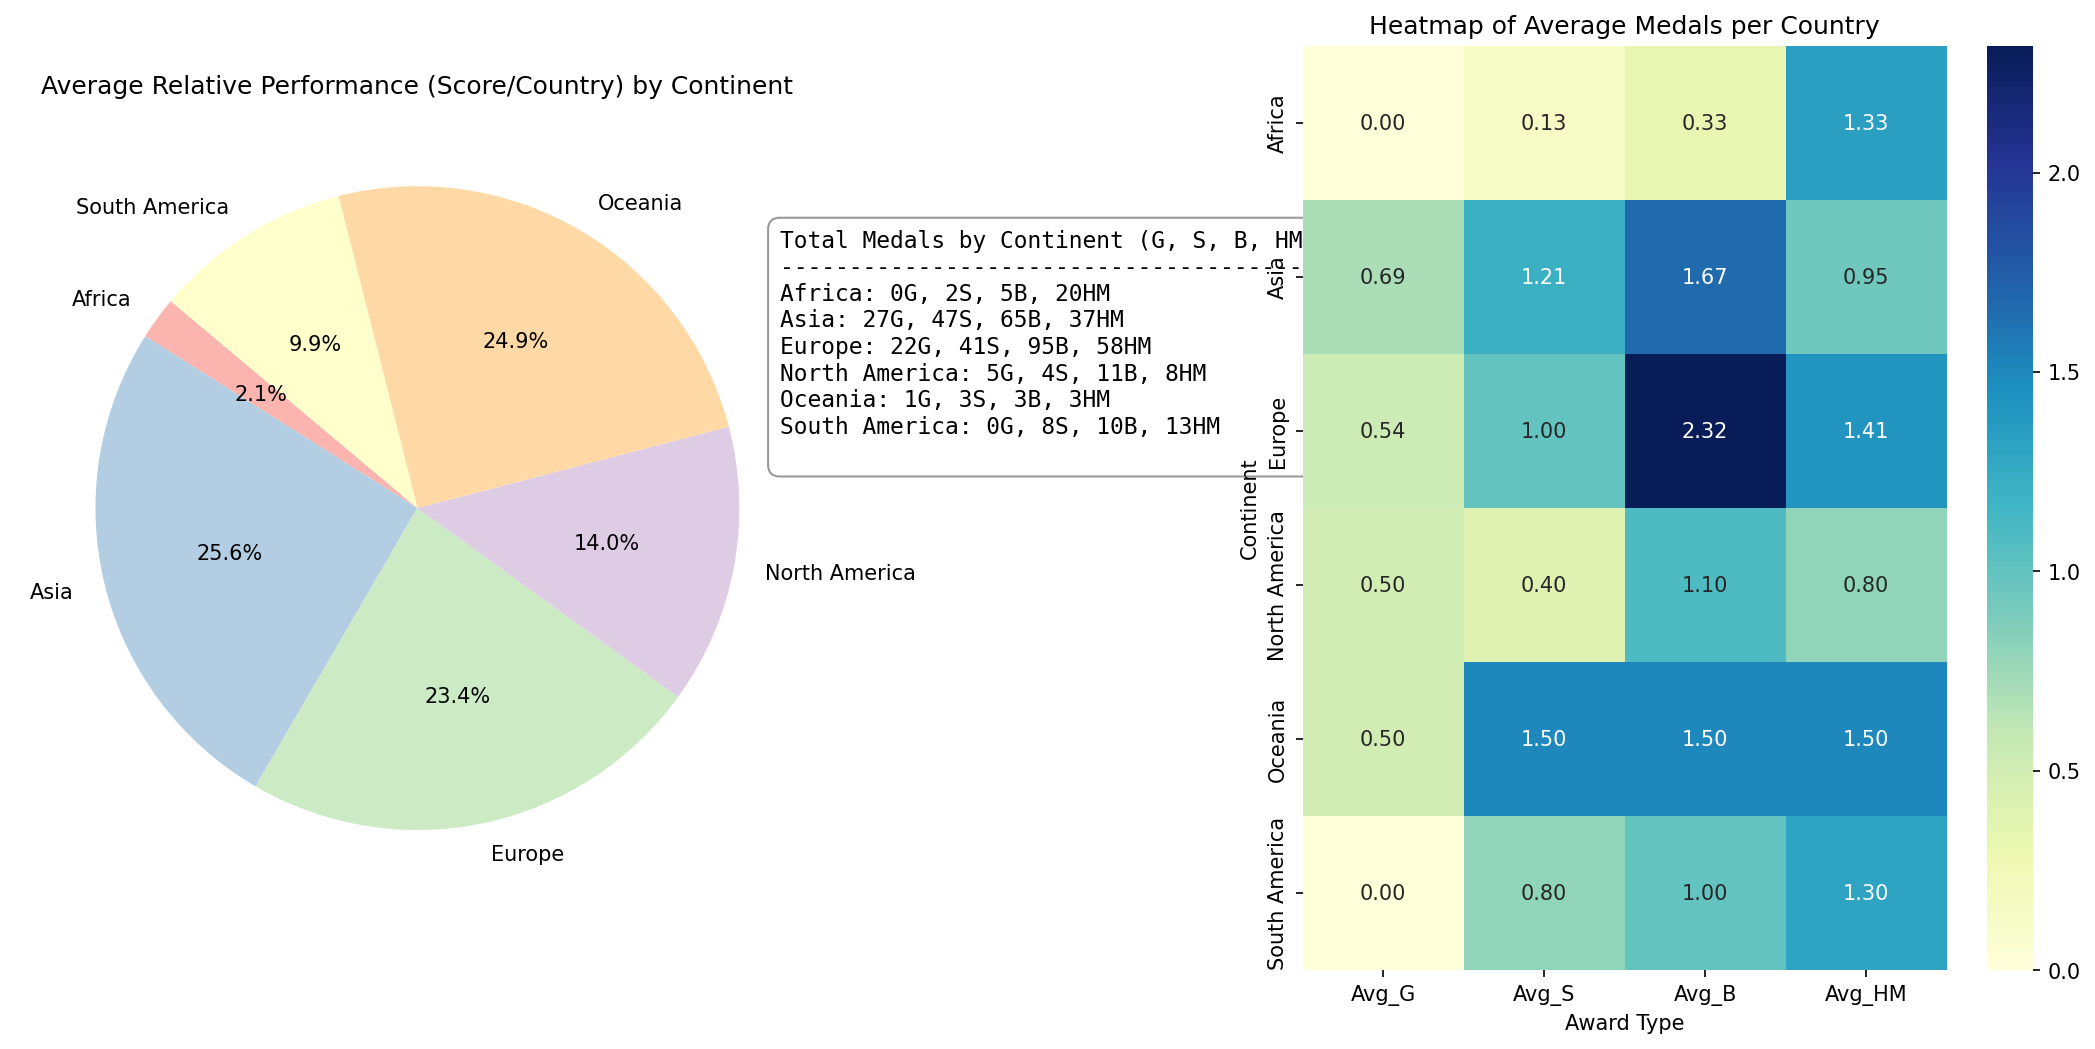
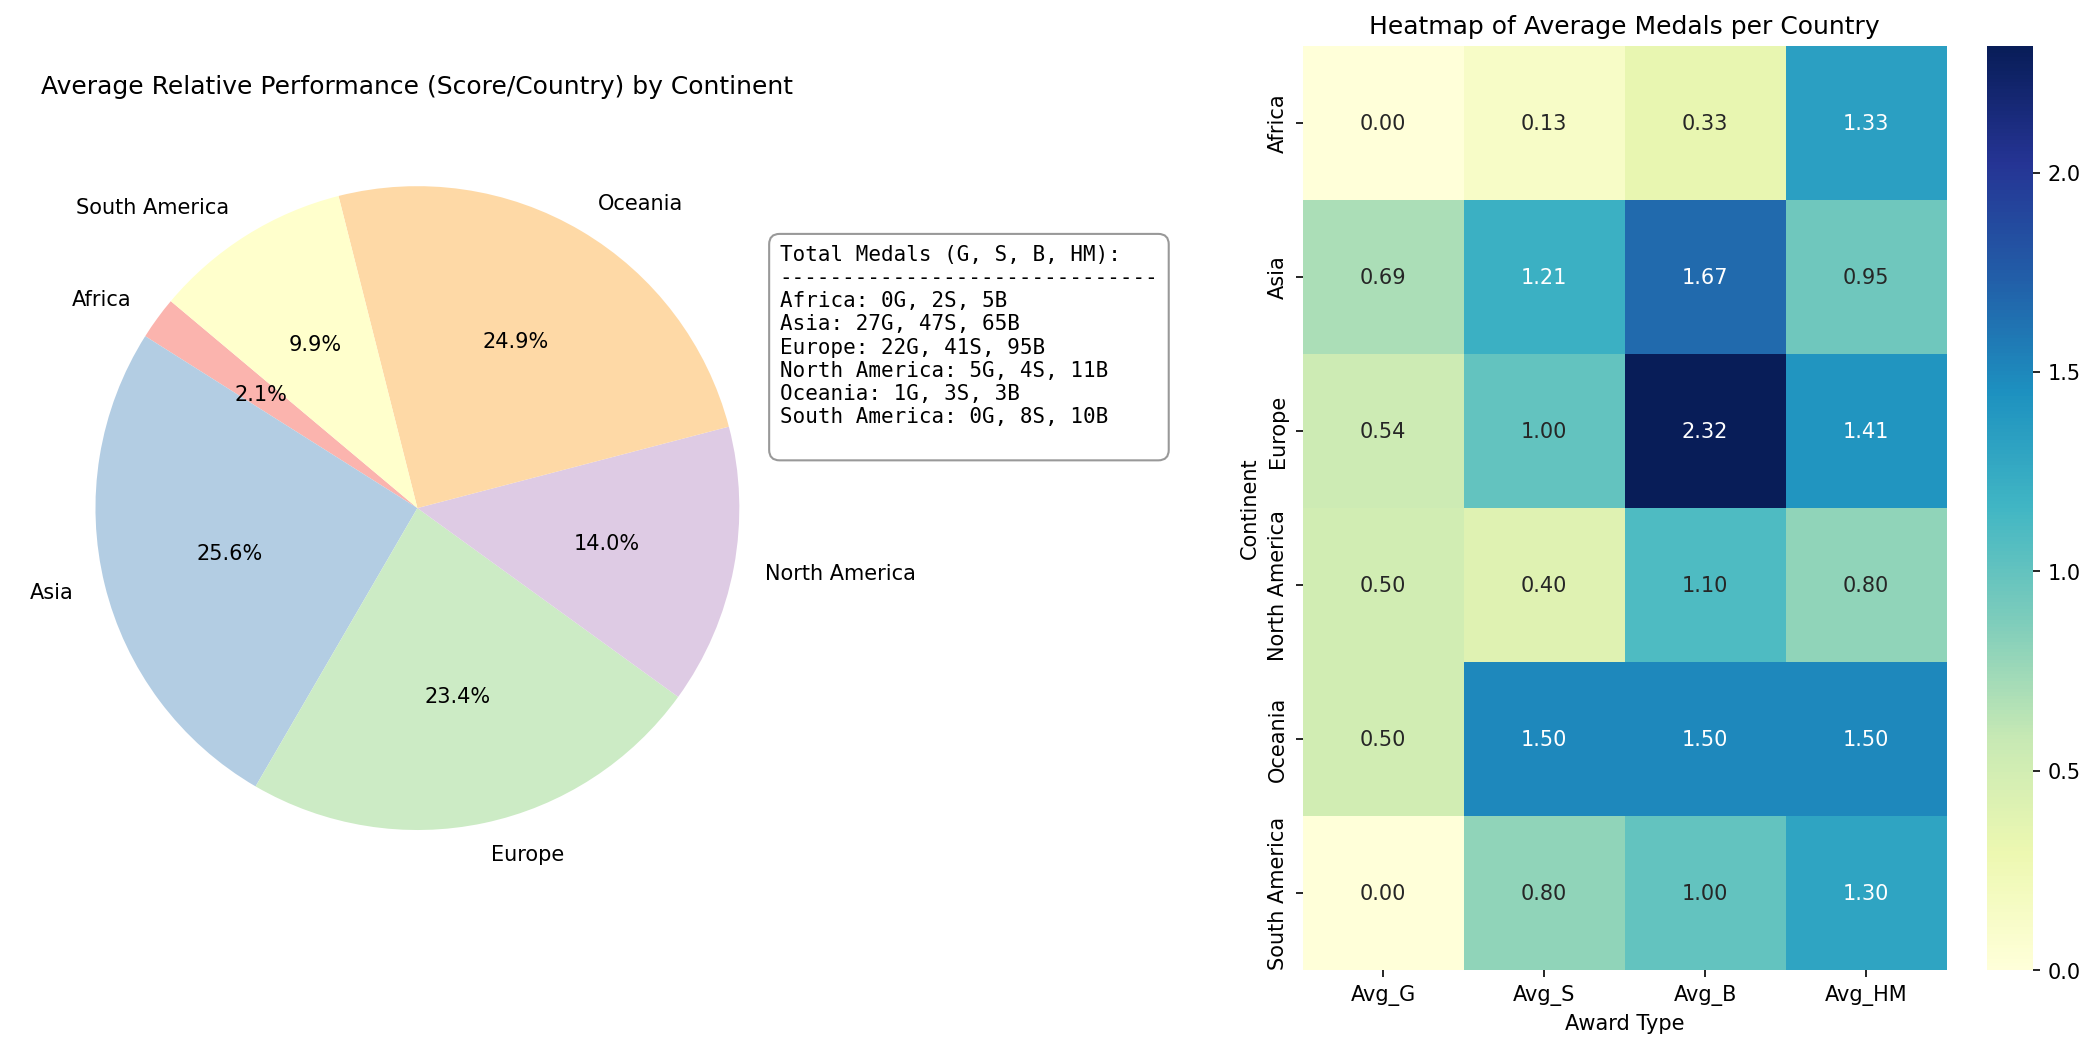
minor

Changed region(s): [[0.3723, 0.2135, 0.5895, 0.4576], [0.5895, 0.2135, 0.6205, 0.244]]

diff --git a/analyze.py b/analyze.py
@@ -38,13 +38,13 @@ axes[0].pie(continent_data['Avg_Score'], labels=continent_data['Continent'], aut
 axes[0].set_title('Average Relative Performance (Score/Country) by Continent')
 
 # Create a text string for the legend showing total medals
-legend_text = "Total Medals by Continent (G, S, B, HM):\n" + "-" * 40 + "\n"
+legend_text = "Total Medals (G, S, B, HM):\n" + "-" * 30 + "\n"
 for index, row in continent_data.iterrows():
-    legend_text += f"{row['Continent']}: {int(row['G'])}G, {int(row['S'])}S, {int(row['B'])}B, {int(row['HM'])}HM\n"
+    legend_text += f"{row['Continent']}: {int(row['G'])}G, {int(row['S'])}S, {int(row['B'])}B\n"
 
 # Add the legend as a text box to the pie chart axis
 props = dict(boxstyle='round,pad=0.5', facecolor='white', edgecolor='gray', alpha=0.8)
-axes[0].text(0.95, 0.7, legend_text, transform=axes[0].transAxes, fontsize=11,
+axes[0].text(0.95, 0.7, legend_text, transform=axes[0].transAxes, fontsize=10,
         verticalalignment='center', bbox=props, family='monospace')
 
 # 2. Heatmap - Average Medals per Country by Continent
